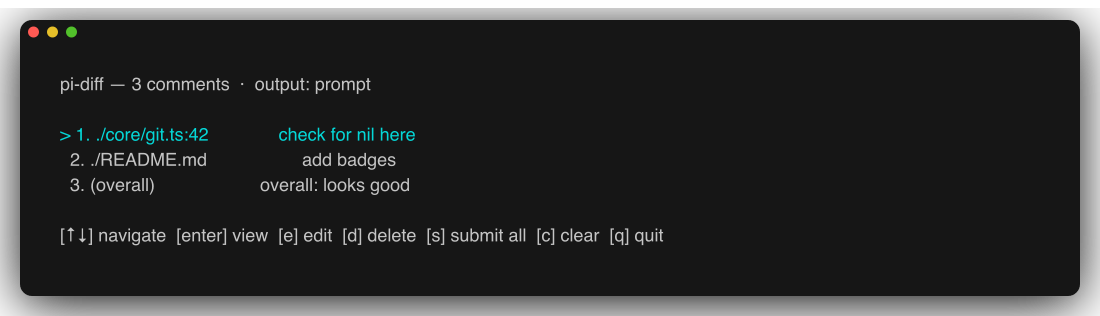
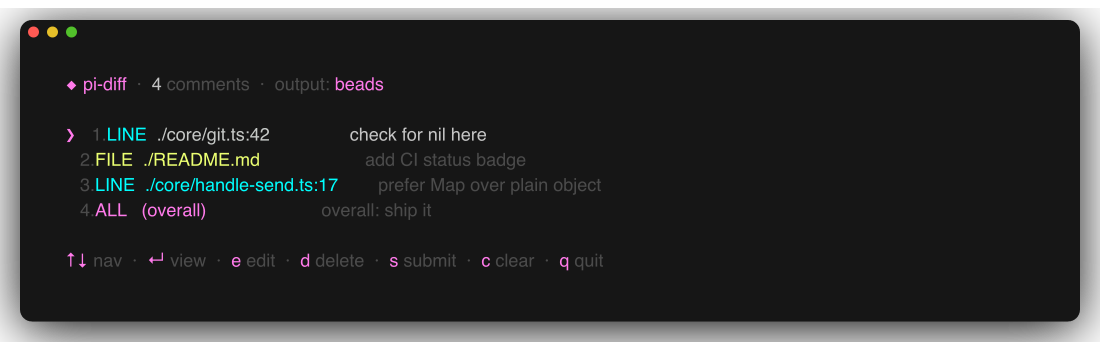
feat(cli): redesign Ink TUI with proper styling
- magenta accent color throughout, gray for muted content
- header bar with diamond icon, item count, output mode badge
- color-coded kind tags per row: LINE (cyan), FILE (yellow), ALL (magenta)
- highlighted cursor row with chevron + bold
- kbd-style keybind footer with accent-colored keys
- @user/ui Spinner during submitting/editing instead of plain text
- waiting screen: aligned label/value fields, big count badge,
  context-aware footer hint, hint to click 'Done' in browser

Re-render screenshots to match the new style.

diff --git a/cli/manager.tsx b/cli/manager.tsx
@@ -5,6 +5,7 @@ import { tmpdir } from "node:os";
 import path from "node:path";
 import React, { useEffect, useState } from "react";
 import { Box, Text, useApp, useInput, useStdin } from "ink";
+import { Spinner } from "@inkjs/ui";
 import { appendAttempt, summarizeBeadsResult, updateLastResult } from "../core/backups.js";
 import { buildTitle, createBeadsForComments, isBeadsAvailable, isBeadsRepoConfigured, summarizeCreated, type CreatedBead } from "../core/bd-client.js";
 import { formatCommentsAsBeadsScript } from "../core/beads.js";
@@ -462,7 +463,17 @@ export function Manager(props: ManagerProps): React.JSX.Element {
 	});
 
 	const safeCursor = items.length === 0 ? 0 : Math.min(cursor, items.length - 1);
-	const header = `pi-diff — ${items.length} comment${items.length === 1 ? "" : "s"}  ·  output: ${settings.output}`;
+
+	const ACCENT = "magentaBright";
+	const MUTED = "gray";
+	const SUCCESS = "greenBright";
+	const DANGER = "redBright";
+
+	const kindFor = (c: DiffComment): { label: string; color: string } => {
+		if (c.kind === "line") return { label: "LINE", color: "cyanBright" };
+		if (c.kind === "file") return { label: "FILE", color: "yellowBright" };
+		return { label: "ALL ", color: "magentaBright" };
+	};
 
 	if (mode.kind === "view") {
 		const item = items[mode.index];
@@ -502,62 +513,108 @@ export function Manager(props: ManagerProps): React.JSX.Element {
 
 	if (mode.kind === "submitting") {
 		return (
-			<Box flexDirection="column">
-				<Text>Submitting…</Text>
+			<Box flexDirection="column" paddingX={1} paddingY={1}>
+				<Box>
+					<Spinner label="submitting" />
+				</Box>
 			</Box>
 		);
 	}
 
 	if (mode.kind === "editing") {
 		return (
-			<Box flexDirection="column">
-				<Text>Opening editor…</Text>
+			<Box flexDirection="column" paddingX={1} paddingY={1}>
+				<Spinner label="opening editor" />
 			</Box>
 		);
 	}
 
 	return (
-		<Box flexDirection="column">
-			<Text bold>{header}</Text>
-			<Box height={1} />
+		<Box flexDirection="column" paddingX={1}>
+			{/* Header */}
+			<Box marginBottom={1}>
+				<Text>
+					<Text bold color={ACCENT}>◆ pi-diff</Text>
+					<Text color={MUTED}>  ·  </Text>
+					<Text bold>{items.length}</Text>
+					<Text color={MUTED}> comment{items.length === 1 ? "" : "s"}  ·  output: </Text>
+					<Text bold color={ACCENT}>{settings.output}</Text>
+				</Text>
+			</Box>
+
+			{/* Item list */}
 			{items.length === 0 ? (
-				<Text dimColor>(empty queue)</Text>
+				<Box paddingY={1}>
+					<Text color={MUTED}>(empty queue — press </Text>
+					<Text color={ACCENT}>q</Text>
+					<Text color={MUTED}> to exit)</Text>
+				</Box>
 			) : (
-				items.map((it, i) => {
-					const active = i === safeCursor;
-					const loc = locationFor(it.comment).padEnd(28).slice(0, 28);
-					const summary = summarize(it.comment.text);
-					return (
-						<Text key={it.comment.id} color={active ? "cyan" : undefined}>
-							{active ? "> " : "  "}
-							{i + 1}. {loc}  {summary}
-							{it.lastError ? <Text color="red"> (failed: {it.lastError})</Text> : null}
-						</Text>
-					);
-				})
+				<Box flexDirection="column">
+					{items.map((it, i) => {
+						const active = i === safeCursor;
+						const kind = kindFor(it.comment);
+						const loc = locationFor(it.comment);
+						const summary = summarize(it.comment.text, 56);
+						return (
+							<Box key={it.comment.id}>
+								<Box width={2}>
+									<Text color={active ? ACCENT : MUTED}>{active ? "❯" : " "}</Text>
+								</Box>
+								<Box width={3}>
+									<Text color={MUTED}>{String(i + 1).padStart(2)}.</Text>
+								</Box>
+								<Box width={6}>
+									<Text color={kind.color}>{kind.label}</Text>
+								</Box>
+								<Box width={32}>
+									<Text color={active ? "white" : undefined} bold={active}>{loc}</Text>
+								</Box>
+								<Box flexGrow={1}>
+									<Text color={active ? undefined : MUTED}>{summary}</Text>
+								</Box>
+								{it.lastError ? <Text color={DANGER}>  (failed)</Text> : null}
+							</Box>
+						);
+					})}
+				</Box>
 			)}
-			<Box height={1} />
-			{mode.kind === "results" ? (
-				<>
-					<Text bold>Submission results:</Text>
-					{mode.created.map((r, i) => (
-						<Text key={i} color={r.id ? "green" : "red"}>
-							{r.id ? `  ✓ ${r.id}  ${r.title}` : `  ✗ ${r.title} — ${r.error ?? "unknown"}`}
+
+			{/* Footer */}
+			<Box marginTop={1} flexDirection="column">
+				{mode.kind === "results" ? (
+					<>
+						<Text bold color={ACCENT}>submission results</Text>
+						{mode.created.map((r, i) => (
+							<Box key={i}>
+								<Text color={r.id ? SUCCESS : DANGER}>{r.id ? "  ✓ " : "  ✗ "}</Text>
+								<Text>{r.id ? `${r.id}  ${r.title}` : `${r.title}`}</Text>
+								{!r.id ? <Text color={MUTED}> — {r.error ?? "unknown"}</Text> : null}
+							</Box>
+						))}
+						<Box marginTop={1}>
+							<Text color={MUTED}>press any key to return</Text>
+						</Box>
+					</>
+				) : mode.kind === "confirmClear" ? (
+					<Text>
+						<Text color={DANGER}>! </Text>
+						clear all <Text bold>{items.length}</Text> item(s)? [<Text bold color={ACCENT}>y</Text>/N]
+					</Text>
+				) : mode.kind === "confirmQuit" ? (
+					<Text>
+						<Text color={DANGER}>! </Text>
+						discard <Text bold>{items.length}</Text> item(s)? [<Text bold color={ACCENT}>y</Text>/N]
+					</Text>
+				) : (
+					<>
+						<Text color={MUTED}>
+							<Text color={ACCENT}>↑↓</Text> nav  ·  <Text color={ACCENT}>↵</Text> view  ·  <Text color={ACCENT}>e</Text> edit  ·  <Text color={ACCENT}>d</Text> delete  ·  <Text color={ACCENT}>s</Text> submit  ·  <Text color={ACCENT}>c</Text> clear  ·  <Text color={ACCENT}>q</Text> quit
 						</Text>
-					))}
-					<Box height={1} />
-					<Text dimColor>(press any key to return)</Text>
-				</>
-			) : mode.kind === "confirmClear" ? (
-				<Text>Clear all {items.length} item(s)? [y/N]</Text>
-			) : mode.kind === "confirmQuit" ? (
-				<Text>Discard {items.length} item(s)? [y/N]</Text>
-			) : (
-				<>
-					<Text dimColor>[↑↓] navigate  [enter] view  [e] edit  [d] delete  [s] submit all  [c] clear  [q] quit</Text>
-					{error ? <Text color="red">{error}</Text> : null}
-				</>
-			)}
+						{error ? <Text color={DANGER}>{error}</Text> : null}
+					</>
+				)}
+			</Box>
 		</Box>
 	);
 }

diff --git a/cli/waiting.tsx b/cli/waiting.tsx
@@ -9,40 +9,65 @@ type Props = {
 	autoSubmit: boolean;
 };
 
+const ACCENT = "magentaBright";
+const MUTED = "gray";
+
+function Header(): React.JSX.Element {
+	return (
+		<Box marginBottom={1}>
+			<Text>
+				<Text bold color={ACCENT}>◆ pi-diff</Text>
+				<Text color={MUTED}>  ·  diff review for the terminal</Text>
+			</Text>
+		</Box>
+	);
+}
+
+function Field({ label, value }: { label: string; value: string }): React.JSX.Element {
+	return (
+		<Box>
+			<Box width={10}>
+				<Text color={MUTED}>{label}</Text>
+			</Box>
+			<Text>{value}</Text>
+		</Box>
+	);
+}
+
 export function Waiting({ targetLabel, viewerMessage, url, count, autoSubmit }: Props): React.JSX.Element {
 	return (
-		<Box flexDirection="column">
-			<Text bold>pi-diff</Text>
-			<Text>
-				<Text dimColor>target: </Text>
-				{targetLabel}
-			</Text>
-			<Text>
-				<Text dimColor>viewer: </Text>
-				{viewerMessage}
-			</Text>
-			<Text>
-				<Text dimColor>url: </Text>
-				{url}
-			</Text>
-			<Box height={1} />
-			<Text>
-				<Text dimColor>received: </Text>
-				<Text bold color={count > 0 ? "green" : undefined}>{count}</Text>
-				<Text dimColor> comment(s)</Text>
-			</Text>
-			<Box height={1} />
-			{autoSubmit ? (
-				<Text dimColor>Auto-submit on. The first browser submission ends Phase A. (Ctrl+C cancels)</Text>
-			) : count === 0 ? (
-				<Text dimColor>Submit comments from the browser. They will accumulate here. Press Enter when done. (q / Ctrl+C cancels)</Text>
-			) : (
+		<Box flexDirection="column" paddingX={1}>
+			<Header />
+
+			<Field label="target" value={targetLabel} />
+			<Field label="viewer" value={viewerMessage} />
+			<Field label="url" value={url} />
+
+			<Box marginTop={1}>
 				<Text>
-					<Text>Press </Text>
-					<Text bold color="cyan">Enter</Text>
-					<Text> when done — or keep submitting more from the browser. (q / Ctrl+C cancels)</Text>
+					<Text color={MUTED}>received  </Text>
+					<Text bold color={count > 0 ? "greenBright" : MUTED}>
+						{String(count).padStart(2, "0")}
+					</Text>
+					<Text color={MUTED}>  comments</Text>
 				</Text>
-			)}
+			</Box>
+
+			<Box marginTop={1}>
+				{autoSubmit ? (
+					<Text color={MUTED}>auto-submit on · first submission ends Phase A · ctrl-c cancels</Text>
+				) : count === 0 ? (
+					<Text color={MUTED}>
+						write comments in the browser, then click <Text color={ACCENT}>Done</Text> · ctrl-c cancels
+					</Text>
+				) : (
+					<Text>
+						<Text color={MUTED}>press </Text>
+						<Text bold color={ACCENT}>Enter</Text>
+						<Text color={MUTED}> when done · keep submitting more · ctrl-c cancels</Text>
+					</Text>
+				)}
+			</Box>
 		</Box>
 	);
 }